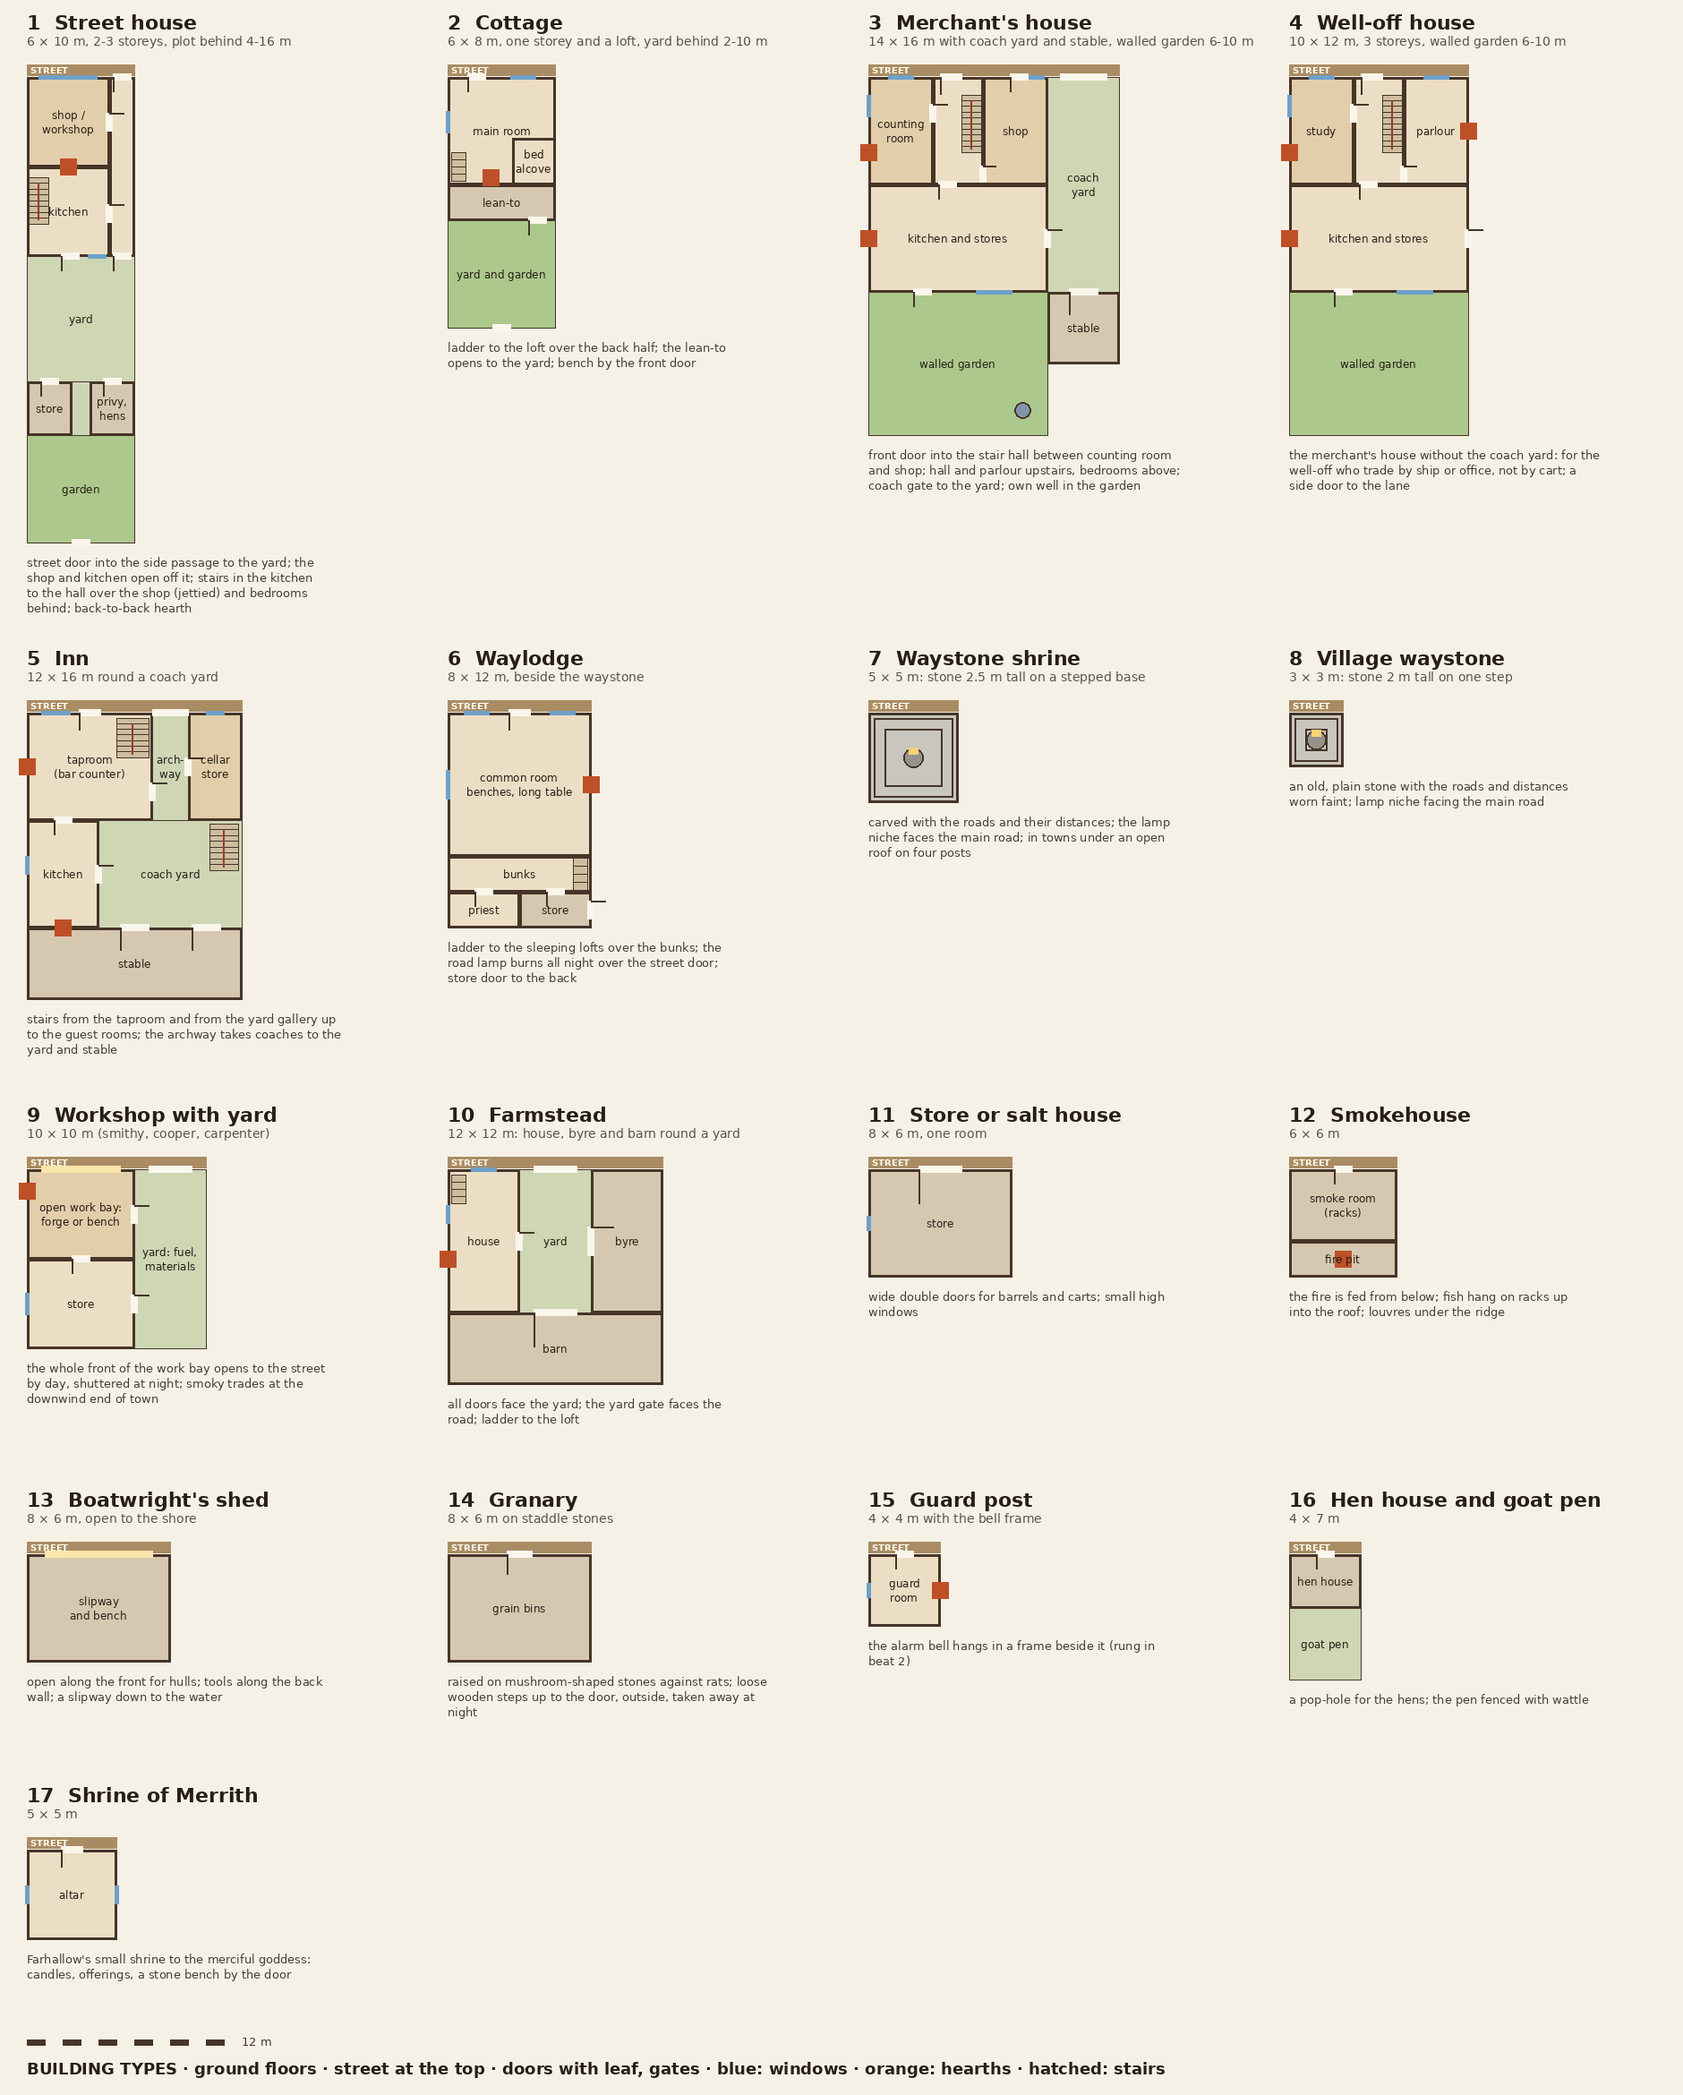
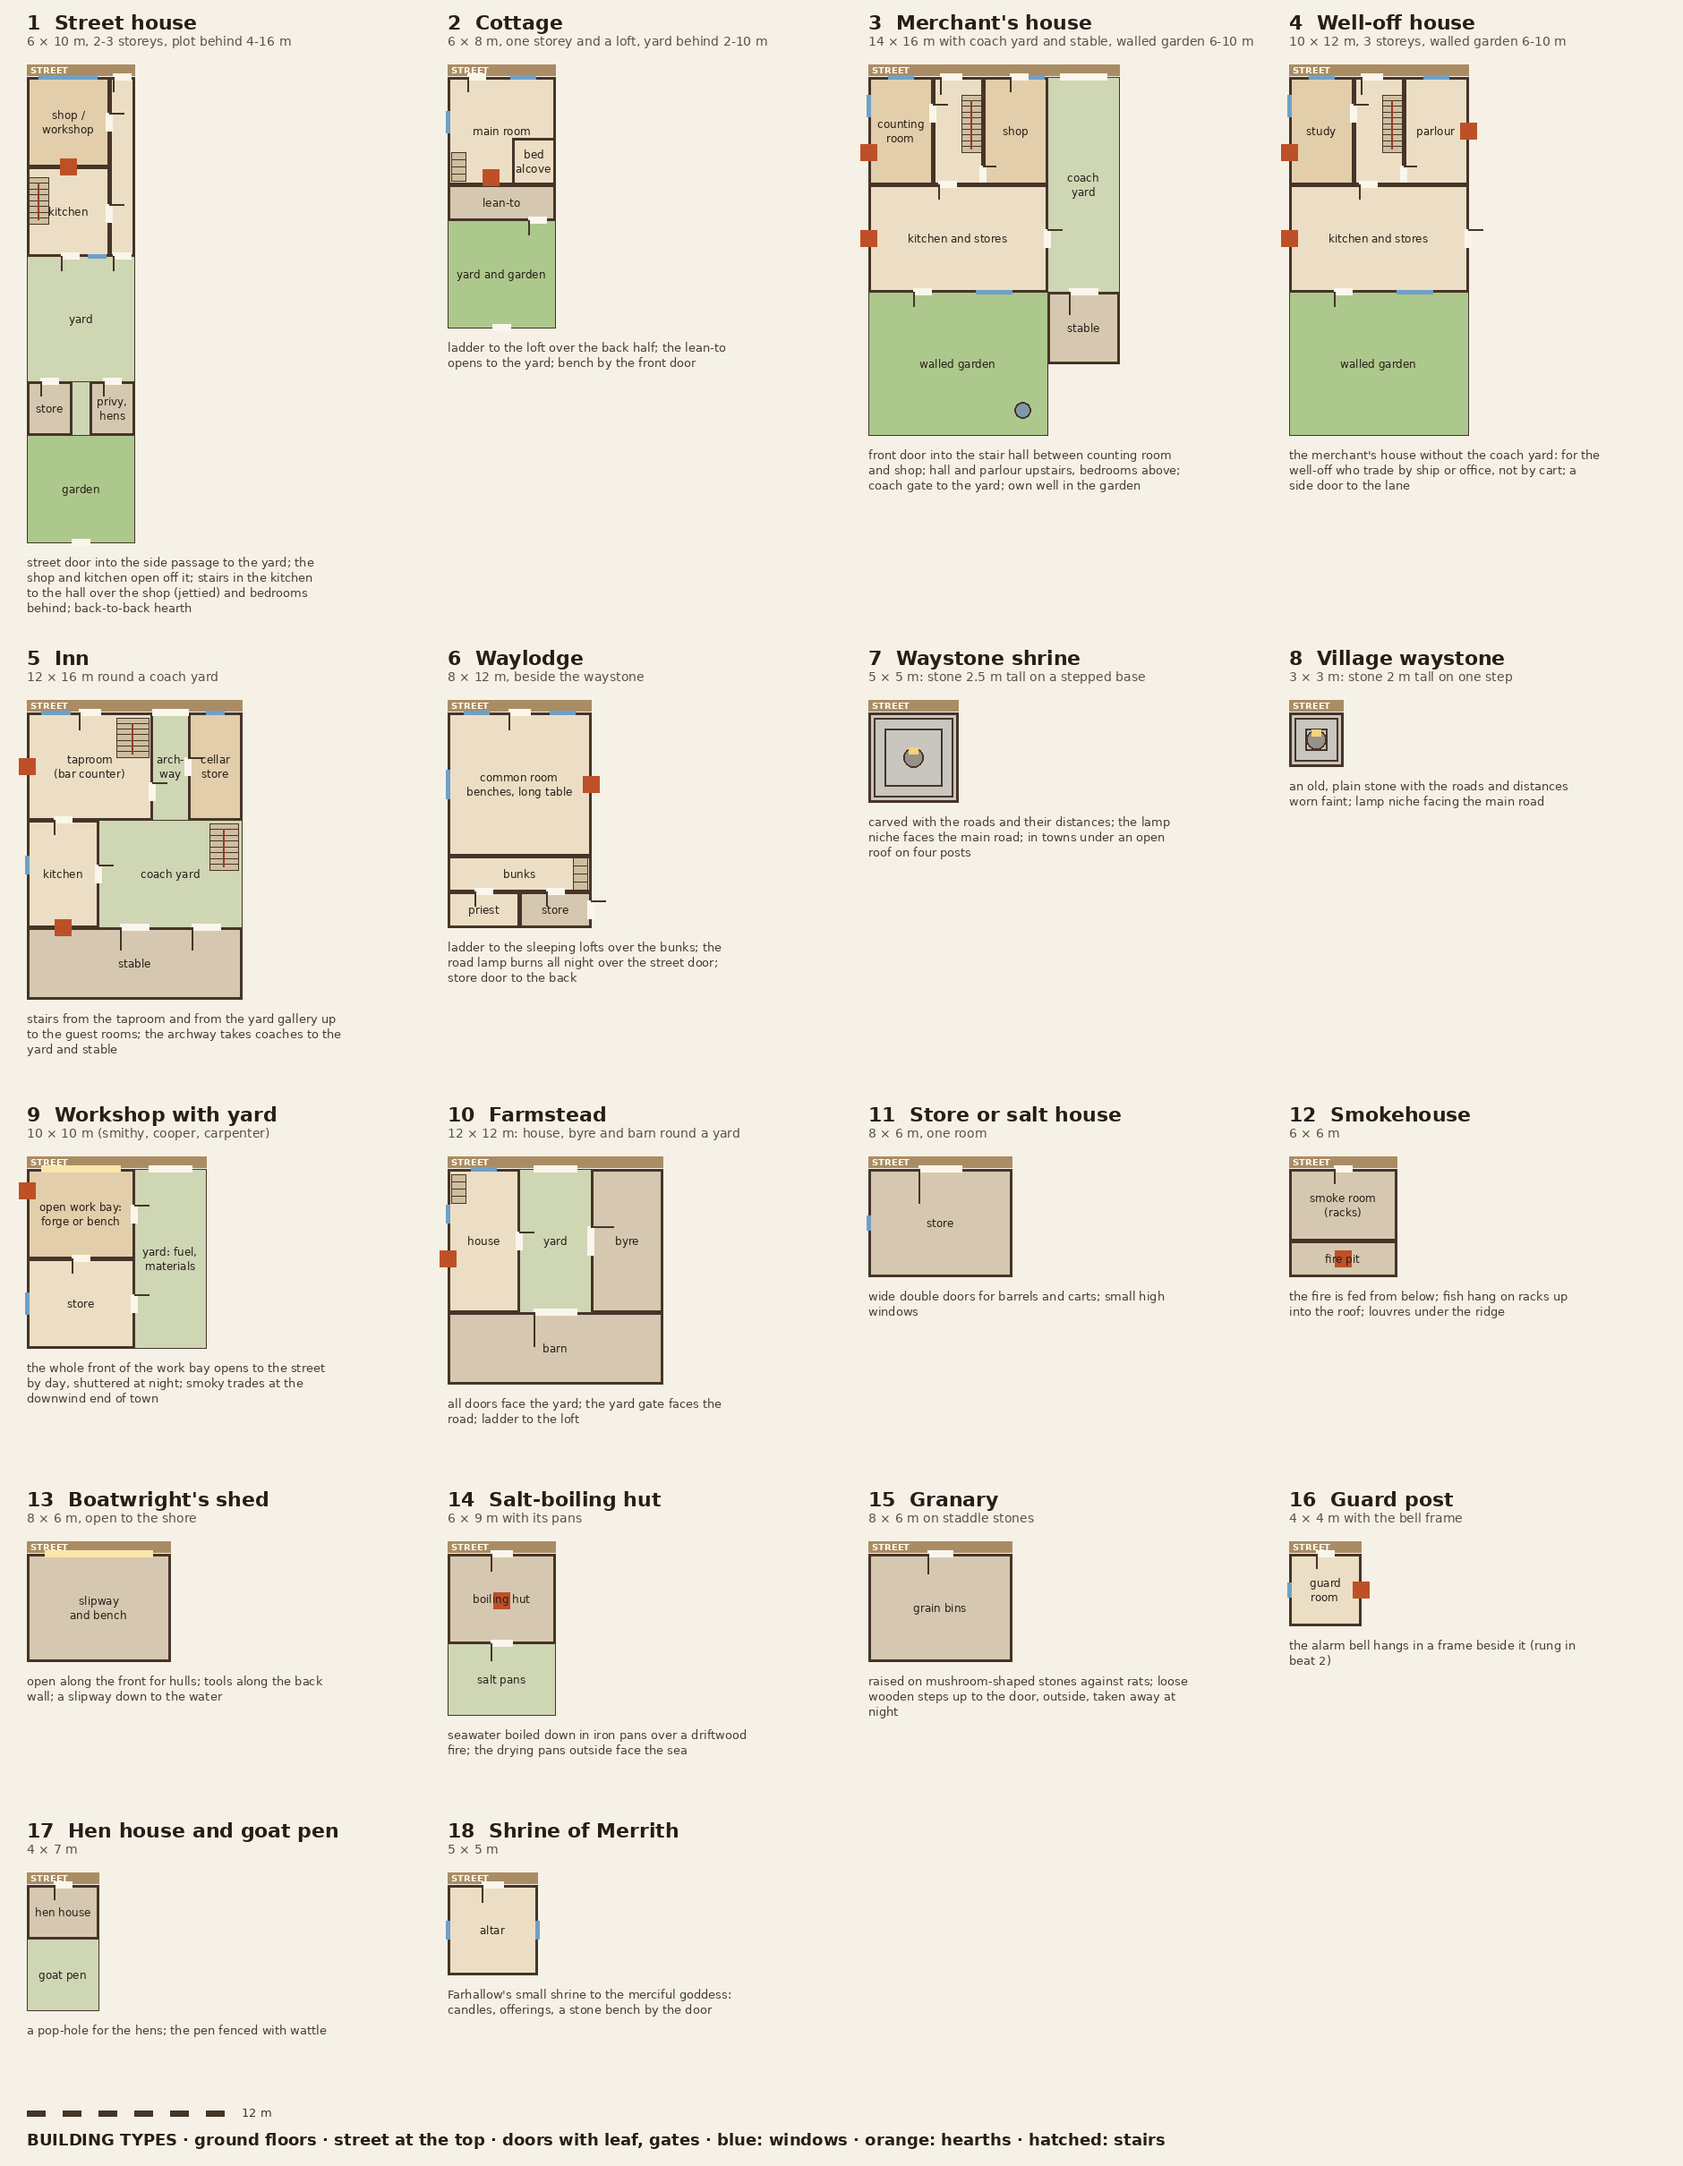
Farhallow feeds itself: supply numbers, outer fields, home-made salt
Claude-Session: https://claude.ai/code/session_01YFqBBR7wJ4yMRnMyKvr2Fs

diff --git a/docs/settlements/farhallow.md b/docs/settlements/farhallow.md
@@ -17,8 +17,7 @@ few who chose the edge of the world on purpose. Most fish; the rest farm the cle
 the harbour.
 
 **How they live.** The sea feeds the village. Fishers bring in herring and cod at dawn; it is gutted, salted and smoked
-on the shore, and twice a month a trader's ship carries the barrels to Hollin's Cross. Salt, iron, cloth and lamp oil come
-back. The fields give barley, beans and hay; hens and a few goats live by the cottages. The smith mends boat fittings,
+on the shore, and twice a month a trader's ship carries the barrels to Hollin's Cross. Iron, cloth, lamp oil and tools come back; the salt is their own, boiled from seawater on the shore. The fields give barley, beans and hay; hens and a few goats live by the cottages. The smith mends boat fittings,
 hooks, tools and the odd blade.
 
 **Rich and poor.** Uneven, as fishing villages are:
@@ -59,6 +58,36 @@ evening the Fog comes, the wind dies and swings round to blow in from the sea fo
 The ground rises from the harbour (south-east) to a rise in the north-east. The road from the interior enters through
 the north gate. Downwind means south-east, toward the harbour and the bay.
 
+### Supply: can Farhallow live on its own?
+
+It must: it lies at the far edge of the world, two days by sea from Hollin's Cross, and the coast road is long and
+unsafe. So it grows or catches its own food, burns its own wood, draws its own water and makes its own salt. The trader's
+ship brings only what the village cannot make, and Farhallow would survive a season without it.
+
+About 80 people × 2,000 kcal a day is about 58 million kcal a year:
+
+| Food | Share | How much | Where it comes from |
+| --- | --- | --- | --- |
+| Fish (herring, cod, mackerel; fresh, smoked, salted) | ~40% | ~19 t a year eaten, plus the surplus salted for trade | 4-5 boats from the pier; the smokehouse and salt house keep it |
+| Grain (barley, oats; bread, porridge, ale) | ~40% | ~7 t a year | **~10 ha sown each year, ~20-25 ha of open fields in two halves (one rests fallow)**, outside the palisade along the north road and west of it, worked in strips by every household |
+| Beans, peas, cabbage, onions, roots | ~8% | | the house plots and the small infield inside the palisade |
+| Hens, goats (milk, cheese), pigs | ~7% | | yards and the hen house; goats and pigs on the common at the wood's edge |
+| Foraging | ~5% | | shellfish and seaweed from the shore, berries, mushrooms, nuts and small game from the woods |
+
+- **Water:** the well (the old spring the village grew round), rain barrels.
+- **Fuel:** firewood and the smith's charcoal from the woods round the clearing; driftwood.
+- **Salt:** boiled from seawater in pans by a small salt-boiling hut on the shore, downwind; stored in the salt house.
+- **Winter stores:** the granary holds next year's seed and about three months of grain; smoked and salted fish in the
+  smokehouse and salt house; roots in house cellars. A bad harvest means a lean spring, not starvation.
+- **Imports** (the trader's ship, twice a month): iron bars, cloth, lamp oil, tools, and wine and spices for the
+  well-off. **Exports:** salted and smoked fish, some salt.
+- **If the ships stop:** Farhallow eats; it runs short of iron, oil and cloth. (On the night of the prologue the trader's
+  ship is the last ship out.)
+
+**Changes this made:** the fields inside the palisade are only the infield (beans and barley close to home); the real
+fields (~20-25 ha) lie outside, along the north road, beyond the edge of the plan. The salt comes from salt pans on the
+shore instead of the trader's ship.
+
 | Building or facility | Where | Why there | What sits with it |
 | --- | --- | --- | --- |
 | **The Gull & Lantern** (tavern with rooms) | West side of the well square, on the gate road | Locals gather at the square; travellers off the road walk straight in. Not at the edge | Benches, a sign, a lamp, barrels by the side door, a stable post |
@@ -77,7 +106,10 @@ the north gate. Downwind means south-east, toward the harbour and the bay.
 | **Guard post** | Inside the north gate | Watches the road and the woods | Bell (rings in beat 2), a brazier, a spear rack |
 | **Farming cottages** (middling) | West, between the square and the fields | Next to their fields and vegetable plots, upwind | Hen house, goat pen, hay, tools |
 | **Old core houses** (middling) | Round the square | The oldest houses, built round the spring | Pots, a bench, washing lines |
-| **Fields and vegetable plots** | North-west, inside the palisade | Flat, sunny, upwind; near the granary | Fence, scarecrow, hay stacks |
+| **Infield and vegetable plots** | North-west, inside the palisade | Flat, sunny, upwind, near the granary; safe inside the palisade | Fence, scarecrow, hay stacks |
+| **Open fields** (~20-25 ha) | Outside the palisade, along the north road and to the west | The village's grain; far too big to fit inside the walls | Strips, boundary stones, a field barn (beyond the plan's edge) |
+| **Common pasture and woodlot** | The wood's edge round the clearing | Goats and pigs, firewood, charcoal | A charcoal burner's clearing |
+| **Salt-boiling hut and pans** | On the shore east of the harbour, downwind | Seawater and driftwood at hand; smoke blows out to sea | Pans, a woodpile, sacks |
 | **Palisade and north gate** | Round the landward side | Built against wolves; the sea guards the rest | Gate torches |
 
 **Changes from plan v2:** the tavern moves from the west edge to the square; the smithy moves from the rise (upwind,
